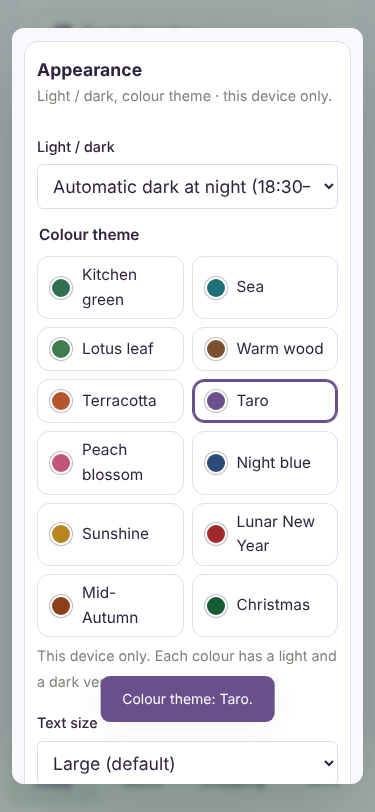
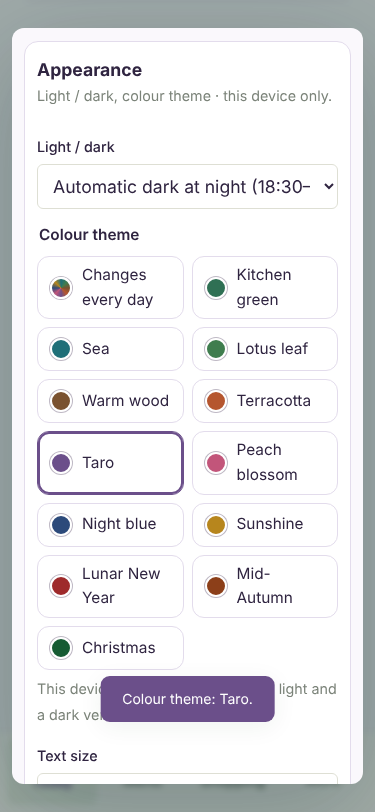
v1.7.10: colours that change every day, buttons keep the page still (rule 24), tests for the 125-recipe library
- Appearance: 'Tự đổi mỗi ngày' swatch cycles Bếp xanh and the eight colours by Sydney day
- Tapping a button/tab/chip that redraws the same screen keeps it under the finger
- AGENTS.md rule 24: buttons must not make the page jump
- Salad hạt chip removed from the library row (recipes retired)
- artwork/catalog-filters browser tests follow the 125-recipe catalogue; fixed waits replaced

Claude-Session: https://claude.ai/code/session_01Gw2TZthCA8GaqhGWMHXnCh

diff --git a/src/frontend/personal-ui.ts b/src/frontend/personal-ui.ts
@@ -17,10 +17,14 @@ function autoEnsureMemberIdentity(){if(!accountSession?.household||!accountSessi
 function getThemeMode(){try{return localStorage.getItem('bep-theme-mode')||'auto'}catch{return 'auto'}}
 // v1.7.10 (Henry, 7 Nov 2026: “thêm 5–6 loại themes”; he chose these eight, each device on its own): colour themes share
 // the seasonal-theme setting (one choice per device). Each has a light and a dark version (CSS: html[data-festival="…"]).
-const COLOR_THEMES:[string,string,string,string][]=[['default','Bếp xanh','Kitchen green','#2f7054'],['bien','Biển','Sea','#1f6f78'],['lasen','Lá sen','Lotus leaf','#3f7d4e'],['go','Gỗ ấm','Warm wood','#7a5230'],['datnung','Đất nung','Terracotta','#b5562f'],['khoaimon','Khoai môn','Taro','#6b4f8a'],['hoadao','Hoa đào','Peach blossom','#c2557a'],['demxanh','Đêm xanh','Night blue','#2c4a7a'],['nangvang','Nắng vàng','Sunshine','#b7861d'],['tet','Tết · Đỏ vàng','Lunar New Year','#9e2a2b'],['midautumn','Trung Thu','Mid-Autumn','#8c3f19'],['christmas','Giáng Sinh','Christmas','#165b33']];
+const COLOR_THEMES:[string,string,string,string][]=[['auto','Tự đổi mỗi ngày','Changes every day','auto'],['default','Bếp xanh','Kitchen green','#2f7054'],['bien','Biển','Sea','#1f6f78'],['lasen','Lá sen','Lotus leaf','#3f7d4e'],['go','Gỗ ấm','Warm wood','#7a5230'],['datnung','Đất nung','Terracotta','#b5562f'],['khoaimon','Khoai môn','Taro','#6b4f8a'],['hoadao','Hoa đào','Peach blossom','#c2557a'],['demxanh','Đêm xanh','Night blue','#2c4a7a'],['nangvang','Nắng vàng','Sunshine','#b7861d'],['tet','Tết · Đỏ vàng','Lunar New Year','#9e2a2b'],['midautumn','Trung Thu','Mid-Autumn','#8c3f19'],['christmas','Giáng Sinh','Christmas','#165b33']];
+// v1.7.10 (owner, 7 Nov 2026: “cho thêm auto option để màu tự chuyển giữa các theme”): “Tự đổi mỗi ngày” moves to the next
+// everyday colour each day (Sydney date), the same colour all day on this device.
+const AUTO_THEME_CYCLE=['default','bien','lasen','go','datnung','khoaimon','hoadao','demxanh','nangvang'];
+function autoColorTheme(date=(typeof sydneyDate==='function'?sydneyDate():new Date().toISOString().slice(0,10))){const n=Math.floor(Date.parse(date+'T12:00:00Z')/864e5);return AUTO_THEME_CYCLE[((n%AUTO_THEME_CYCLE.length)+AUTO_THEME_CYCLE.length)%AUTO_THEME_CYCLE.length]}
 function getFestivalTheme(){try{return localStorage.getItem('bep-festival-theme')||'default'}catch{return 'default'}}
 function getTextSize(){try{const v=localStorage.getItem('bep-text-size');return v==='medium'||v==='xlarge'?v:'large'}catch{return 'large'}}
-function applyThemePreferences(){document.documentElement.dataset.textSize=getTextSize();const mode=getThemeMode(),fest=getFestivalTheme();let dark=mode==='dark';if(mode==='auto'){const hr=new Date().getHours(),min=new Date().getMinutes(),totalMin=hr*60+min;dark=totalMin>=18*60+30||totalMin<6*60}document.documentElement.dataset.theme=dark?'dark':'light';document.documentElement.dataset.themeMode=mode;if(fest&&fest!=='default')document.documentElement.dataset.festival=fest;else delete document.documentElement.dataset.festival;let btn=$('#theme-quick-toggle');if(!btn&&$('.top-actions')){btn=document.createElement('button');btn.id='theme-quick-toggle';btn.type='button';btn.className='icon theme-toggle-btn';btn.dataset.personal='cycle-theme';$('.top-actions').insertBefore(btn,$('.top-actions .notification'))}if(btn){/* v1.7.10: our own drawing instead of emoji (rule 19) */btn.innerHTML=typeof uiArt==='function'?uiArt(mode==='auto'?'theme-auto':dark?'theme-dark':'theme-light','theme-toggle-art'):'';const themeName=(COLOR_THEMES.find(t=>t[0]===fest)||COLOR_THEMES[0]);btn.title=tr(`Giao diện: ${mode==='auto'?'Tự động tối về đêm':dark?'Tối':'Sáng'} · ${themeName[1]} (bấm để đổi sáng / tối)`,`Theme: ${mode==='auto'?'automatic':dark?'dark':'light'} · ${themeName[2]} (tap to switch light / dark)`);btn.setAttribute('aria-label',btn.title)}}
+function applyThemePreferences(){document.documentElement.dataset.textSize=getTextSize();const mode=getThemeMode(),chosen=getFestivalTheme(),fest=chosen==='auto'?autoColorTheme():chosen;let dark=mode==='dark';if(mode==='auto'){const hr=new Date().getHours(),min=new Date().getMinutes(),totalMin=hr*60+min;dark=totalMin>=18*60+30||totalMin<6*60}document.documentElement.dataset.theme=dark?'dark':'light';document.documentElement.dataset.themeMode=mode;if(fest&&fest!=='default')document.documentElement.dataset.festival=fest;else delete document.documentElement.dataset.festival;let btn=$('#theme-quick-toggle');if(!btn&&$('.top-actions')){btn=document.createElement('button');btn.id='theme-quick-toggle';btn.type='button';btn.className='icon theme-toggle-btn';btn.dataset.personal='cycle-theme';$('.top-actions').insertBefore(btn,$('.top-actions .notification'))}if(btn){/* v1.7.10: our own drawing instead of emoji (rule 19) */btn.innerHTML=typeof uiArt==='function'?uiArt(mode==='auto'?'theme-auto':dark?'theme-dark':'theme-light','theme-toggle-art'):'';const themeName=(COLOR_THEMES.find(t=>t[0]===fest)||COLOR_THEMES[1]);btn.title=tr(`Giao diện: ${mode==='auto'?'Tự động tối về đêm':dark?'Tối':'Sáng'} · ${themeName[1]} (bấm để đổi sáng / tối)`,`Theme: ${mode==='auto'?'automatic':dark?'dark':'light'} · ${themeName[2]} (tap to switch light / dark)`);btn.setAttribute('aria-label',btn.title)}}
 // My kitchen holds family-kitchen settings only, in four cards: members & portions,
 // family connection, menu, reminders. Account & security lives behind the header avatar;
 // appearance, currency and data/backup live in one “Other settings” sheet.
@@ -48,7 +52,7 @@ function kitchenFamilyBody(current,linkedMember,joinNotice){
 }
 function kitchenMembersBody(current,linkedMember){const edit=canEdit(),dis=edit?'':'disabled';return `<form id="members-form">${state.members.map((m,i)=>`<div class="kitchen-member-row"><span class="kitchen-member-emoji" aria-hidden="true">${esc(m.emoji||'🙂')}</span><div class="field"><label for="member-${i}">${tr('Tên','Name')}</label><input id="member-${i}" name="name-${i}" required maxlength="40" value="${esc(m.name)}" ${dis}>${(current?.memberId||linkedMember?.id)===m.id?`<small class="kitchen-you">${tr('Tài khoản của bạn','Your account')}</small>`:''}</div><div class="field"><label for="weight-${i}">${tr('Suất / bữa','Portions / meal')}</label><input id="weight-${i}" name="weight-${i}" required type="number" inputmode="decimal" min="0.1" max="3" step="0.05" value="${m.weight}" ${dis}></div></div>`).join('')}${edit?`<div class="toolbar"><button type="button" class="btn small" data-action="add-member">+ ${tr('Thêm thành viên','Add member')}</button>${state.members.length>1?`<button type="button" class="btn small" data-feature="manage-members">${tr('Bớt thành viên','Remove a member')}</button>`:''}<button type="button" class="btn small primary" data-action="submit-form" data-id="members-form">${tr('Lưu khẩu phần','Save portions')}</button></div>`:`<p class="hint">${tr('Quyền chỉ xem: không đổi được khẩu phần.','View-only access: portions cannot be changed.')}</p>`}</form>`}
 function kitchenMenuBody(){const p=state.preferences,edit=canEdit(),dis=edit?'':'disabled',opt=(v,cur,label)=>`<option value="${v}" ${cur===v?'selected':''}>${label}</option>`;return `<form id="settings-form"><div class="form-grid"><div class="field"><label for="budget">${tr('Ngân sách tuần','Weekly budget')} (${esc(currentCurrency(state))})</label><input id="budget" name="budget" type="number" inputmode="decimal" min="1" max="999999999" required value="${p.budget}" ${dis}></div><div class="field"><label for="max-time">${tr('Thời gian nấu tối đa / món','Maximum cooking time / dish')}</label><select id="max-time" name="maxTime" ${dis}>${[15,20,30,45,60,90].map(n=>`<option value="${n}" ${p.maxTime===n?'selected':''}>${n} ${tr('phút','min')}</option>`).join('')}</select></div></div><div class="field"><label for="avoid">${tr('Món ăn / nguyên liệu cần tránh, dị ứng (cách nhau bằng dấu phẩy)','Foods to avoid, allergies (comma separated)')}</label><input id="avoid" name="avoid" value="${esc(p.avoid)}" placeholder="${tr('Ví dụ: tôm, cá hồi','e.g. prawns, salmon')}" ${dis}><small>${tr('Lọc theo tên đã nhập. Luôn kiểm tra thành phần và nhãn sản phẩm.','Filters by the names entered. Always check ingredients and product labels.')}</small></div><details class="kitchen-more" id="kitchen-menu-more"><summary>${tr('Số món mỗi bữa, cuối tuần & giờ ăn tối','Dishes per meal, weekends & dinner time')}</summary><div class="form-grid kitchen-counts">${[['mainCount',tr('Món mặn','Main dishes'),1,3],['soupCount',tr('Món canh','Soups'),0,2],['vegCount',tr('Món rau','Vegetable dishes'),0,3]].map(([key,name,min,max])=>`<div class="field"><label for="${key}">${name}</label><select id="${key}" name="${key}" ${dis}>${Array.from({length:max-min+1},(_,i)=>i+min).map(n=>`<option value="${n}" ${(p[key]??1)===n?'selected':''}>${n}</option>`).join('')}</select></div>`).join('')}</div><div class="form-grid"><div class="field"><label for="weekend-meals">${tr('Bữa cuối tuần áp dụng','Weekend meals')}</label><select id="weekend-meals" name="weekendMeals" ${dis}>${opt('lunch',p.weekendMeals,tr('Bữa trưa','Lunch'))}${opt('dinner',p.weekendMeals,tr('Bữa tối','Dinner'))}${opt('both',p.weekendMeals,tr('Cả trưa và tối','Lunch and dinner'))}</select></div><div class="field"><label for="dinner-time">${tr('Giờ ăn tối','Dinner time')}</label><input id="dinner-time" name="dinnerTime" type="time" value="${esc(p.dinnerTime)}" required ${dis}></div></div><label class="checked-label"><input type="checkbox" class="check" name="weekendSoup" ${p.weekendSoup?'checked':''} ${dis}> ${tr('Ưu tiên món nước cuối tuần','Prefer noodle soups at the weekend')}</label></details>${edit?`<div class="toolbar topspace"><button type="button" class="btn small primary" data-action="submit-form" data-id="settings-form">${tr('Lưu thực đơn','Save menu')}</button><button type="button" class="text-btn kitchen-link" data-personal="setup">${tr('Thiết lập lại từ đầu','Guided setup')}</button></div>`:''}</form>`}
-function kitchenAppearanceBody(){const mode=getThemeMode(),fest=getFestivalTheme(),opt=(v,cur,label)=>`<option value="${v}" ${cur===v?'selected':''}>${label}</option>`;return `<div class="form-grid"><div class="field"><label for="theme-mode-select">${tr('Sáng / tối','Light / dark')}</label><select id="theme-mode-select">${opt('auto',mode,tr('Tự động tối về đêm (18:30–06:00)','Automatic dark at night (18:30–06:00)'))}${opt('light',mode,tr('Luôn sáng','Always light'))}${opt('dark',mode,tr('Luôn tối','Always dark'))}</select></div><fieldset class="field theme-swatches"><legend>${tr('Màu giao diện','Colour theme')}</legend><div class="theme-swatch-grid" role="radiogroup" aria-label="${tr('Màu giao diện','Colour theme')}">${COLOR_THEMES.map(([id,vi,en,c])=>`<button type="button" class="theme-swatch${fest===id?' on':''}" role="radio" aria-checked="${fest===id}" data-color-theme="${id}"><span class="theme-swatch-dot" style="background:${c}" aria-hidden="true"></span><span>${tr(vi,en)}</span></button>`).join('')}</div><small class="hint">${tr('Chỉ đổi trên máy này. Mỗi màu có bản sáng và tối.','This device only. Each colour has a light and a dark version.')}</small></fieldset><div class="field"><label for="text-size-select">${tr('Cỡ chữ','Text size')}</label><select id="text-size-select">${opt('medium',getTextSize(),tr('Vừa','Medium'))}${opt('large',getTextSize(),tr('Lớn (mặc định)','Large (default)'))}${opt('xlarge',getTextSize(),tr('Rất lớn','Extra large'))}</select></div></div>`}
+function kitchenAppearanceBody(){const mode=getThemeMode(),fest=getFestivalTheme(),opt=(v,cur,label)=>`<option value="${v}" ${cur===v?'selected':''}>${label}</option>`;return `<div class="form-grid"><div class="field"><label for="theme-mode-select">${tr('Sáng / tối','Light / dark')}</label><select id="theme-mode-select">${opt('auto',mode,tr('Tự động tối về đêm (18:30–06:00)','Automatic dark at night (18:30–06:00)'))}${opt('light',mode,tr('Luôn sáng','Always light'))}${opt('dark',mode,tr('Luôn tối','Always dark'))}</select></div><fieldset class="field theme-swatches"><legend>${tr('Màu giao diện','Colour theme')}</legend><div class="theme-swatch-grid" role="radiogroup" aria-label="${tr('Màu giao diện','Colour theme')}">${COLOR_THEMES.map(([id,vi,en,c])=>`<button type="button" class="theme-swatch${fest===id?' on':''}" role="radio" aria-checked="${fest===id}" data-color-theme="${id}"><span class="theme-swatch-dot${c==='auto'?' auto':''}" ${c==='auto'?'':`style="background:${c}"`} aria-hidden="true"></span><span>${tr(vi,en)}</span></button>`).join('')}</div><small class="hint">${tr('Chỉ đổi trên máy này. Mỗi màu có bản sáng và tối.','This device only. Each colour has a light and a dark version.')}</small></fieldset><div class="field"><label for="text-size-select">${tr('Cỡ chữ','Text size')}</label><select id="text-size-select">${opt('medium',getTextSize(),tr('Vừa','Medium'))}${opt('large',getTextSize(),tr('Lớn (mặc định)','Large (default)'))}${opt('xlarge',getTextSize(),tr('Rất lớn','Extra large'))}</select></div></div>`}
 // Account & security: a small sheet behind the header avatar (not part of My kitchen).
 function accountSecurityBody(){const a=accountSession.account||{},h=accountSession.household;return `<div class="account-sheet-id"><span class="account-sheet-face" aria-hidden="true">${esc(accountInitial())}</span><span><b data-user-content>${esc(accountDisplayName())}</b>${a.username?`<small data-user-content>@${esc(a.username)}</small>`:''}<small>${h?`<span data-user-content>${esc(h.name||'')}</span> · ${esc(familyRoleName(h.role))}`:tr('Chưa chọn gia đình','No family selected')}</small></span></div>`
  +settingsCard('security','email',tr('Email khôi phục','Recovery email'),tr('Dùng để đặt lại mật khẩu.','Used to reset your password.'),kitchenOnline()?`<form id="account-email"><div class="field"><label for="account-email-address">${tr('Email khôi phục','Recovery email')}</label><input id="account-email-address" name="email" type="email" autocomplete="email" maxlength="254" value="${esc(a.email||'')}"></div><div class="field"><label for="account-email-password">${tr('Mật khẩu hiện tại','Current password')}</label><input id="account-email-password" name="password" type="password" autocomplete="current-password" required maxlength="128"></div><button class="btn small">${tr('Lưu email','Save email')}</button><p id="email-result" role="status"></p></form>`:`<p class="hint">${tr('Cần mạng để đổi email khôi phục.','Connect to the internet to change the recovery email.')}</p>`)

diff --git a/src/frontend/app.ts b/src/frontend/app.ts
@@ -252,3 +252,11 @@ function savePurchasePicker(){if(!purchasePicker)return;const input=$('#weight-e
 function resetPurchasePicker(){if(!purchasePicker)return;const p=purchasePicker;resetPurchaseQuantity(currentWeek(),p.start,p.end,p.id);delete currentWeek().bought[p.id];save('Đã trở về lượng mua tự động.');purchasePicker=null;clearTimeout(purchaseScrollTimer);closeModal();render()}
 document.addEventListener('input',e=>{if(e.target.id!=='weight-exact'||!purchasePicker)return;const value=e.target.valueAsNumber*(['kg','l'].includes(purchasePicker.displayUnit)?1000:1);if(!Number.isFinite(value)||value<0||value>1e6)return;purchasePicker.qty=value;updatePurchaseSummary(false)});
 document.addEventListener('change',e=>{if(!purchasePicker)return;if(e.target.id==='weight-unit'){purchasePicker.displayUnit=e.target.value;$('#weight-exact').max=['kg','l'].includes(e.target.value)?1000:1000000;updatePurchaseSummary()}if(e.target.id==='weight-step'){purchasePicker.step=+e.target.value;renderPurchaseWheel();updatePurchaseSummary()}if(e.target.id==='weight-exact'){const value=e.target.valueAsNumber*(['kg','l'].includes(purchasePicker.displayUnit)?1000:1);if(Number.isFinite(value)&&value>=0&&value<=1e6)setPickerQuantity(value)}});
+// v1.7.10 (owner, 7 Nov 2026: “ấn nút bữa sáng / bữa trưa / bữa tối thì web nó nhảy… ấn nút là không được nhảy lên xuống”):
+// a tap that redraws the same screen keeps the tapped control exactly where it was. Taps that open a sheet, change
+// screen or change the address (links, notifications) are left alone.
+const KEEP_ATTRS=['data-action','data-fm','data-house','data-change','data-id','data-type','data-date','data-member','data-key','data-qr-dir','data-qr-id','data-mr','data-planning','data-feature','data-screen'];
+function keepPlaceSelector(el:Element){const parts=KEEP_ATTRS.filter(a=>el.hasAttribute(a)).map(a=>`[${a}="${CSS.escape(el.getAttribute(a)||'')}"]`);return parts.length?el.tagName.toLowerCase()+parts.join(''):null}
+document.addEventListener('click',e=>{const el=(e.target as any)?.closest?.('button,[role="tab"],a[data-action],[data-fm],[data-house]');if(!el||el.closest('#modal-root,.modal,#undo-bar')||el.hasAttribute('data-keep-scroll-off'))return;
+ const sel=keepPlaceSelector(el);if(!sel)return;const v=view,hash=location.hash,top=el.getBoundingClientRect().top,root=document.documentElement,prev=root.style.overflowAnchor;
+ setTimeout(()=>{try{if(view!==v||location.hash!==hash||document.querySelector('#modal-root .modal'))return;const now=document.querySelector('#main '+sel)||document.querySelector(sel);if(!now)return;const d=now.getBoundingClientRect().top-top;if(Math.abs(d)>1){root.style.overflowAnchor='none';window.scrollBy(0,d);requestAnimationFrame(()=>{root.style.overflowAnchor=prev})}}catch{}},0)},true);

diff --git a/src/frontend/family-menu-ui.ts b/src/frontend/family-menu-ui.ts
@@ -17,7 +17,7 @@ function familyRecipePool(scope=familyLibraryMode){const q=familyRecipeSearch.tr
 // badge, page size 10/20/50/100 remembered per device with "Xem thêm" (load more), and compact image+name cards that
 // expand inline (accordion); tapping the image opens the full recipe. Counts reuse recipeMatchesLibraryFilters/Tag.
 function familyRecipeRows(scope=familyLibraryMode,pool=familyRecipePool(scope)){return pool.filter(r=>recipeMatchesLibraryFilters(r,{category:familyRecipeCat,tag:familyRecipeTag})&&recipeMatchesLibraryTag(r,familyRecipeDiet))}
-const FAMILY_TAG_CHIPS=[['western','🍝 Món Âu & Ý','🍝 Western & Italian'],['healthy','🥗 Healthy · Thanh đạm','🥗 Healthy'],['vegetarian','Vegetarian','Vegetarian'],['vegan','Thuần chay','Vegan'],['seed-salad','Salad hạt','Seed & grain salads'],['dressing','Dressing','Dressings']],FAMILY_KIND_TAGS=['western','seed-salad','dressing'],FAMILY_DIET_TAGS=['healthy','vegetarian','vegan'],FAMILY_PAGE_SIZES=[10,20,50,100];
+const FAMILY_TAG_CHIPS=[['western','🍝 Món Âu & Ý','🍝 Western & Italian'],['healthy','🥗 Healthy · Thanh đạm','🥗 Healthy'],['vegetarian','Vegetarian','Vegetarian'],['vegan','Thuần chay','Vegan'],['seed-salad','Salad hạt','Seed & grain salads'],['dressing','Dressing','Dressings']],FAMILY_KIND_TAGS=['western','dressing'],FAMILY_DIET_TAGS=['healthy','vegetarian','vegan'],FAMILY_PAGE_SIZES=[10,20,50,100];
 function familyFilterActive(){return familyRecipeCat!=='all'||familyRecipeTag!=='all'||familyRecipeDiet!=='all'||familyRecipeTime!=='all'}
 function familySheetFilterCount(){return Number(familyRecipeDiet!=='all')+Number(familyRecipeTime!=='all')}
 function familyTimeLabel(){return tr('≤20 phút','≤20 min')}

diff --git a/dist/styles.css b/dist/styles.css
@@ -2068,3 +2068,4 @@ html[data-festival="khoaimon"]:not([data-theme="dark"]){--green2:#715394}
 html[data-festival="hoadao"]:not([data-theme="dark"]){--green2:#9a3d61}
 html[data-festival="nangvang"]:not([data-theme="dark"]){--green2:#755410}
 html[data-festival="datnung"]:not([data-theme="dark"]){--green2:#9a4524}
+.theme-swatch-dot.auto{background:conic-gradient(#1f6f78,#3f7d4e,#7a5230,#b5562f,#6b4f8a,#c2557a,#2c4a7a,#b7861d,#1f6f78)}

diff --git a/docs/reviews/v1.7.10/review.md b/docs/reviews/v1.7.10/review.md
@@ -32,3 +32,29 @@ Scope, from Henry's choices in the question dialog on 7 Nov 2026:
 - **Family recipes:** never translated (`data-user-content`). In English mode their sheet says *Family recipes are shown as your family wrote them.* The old note *Recipe names and cooking instructions remain in their original language* is gone.
 - **Tests:** `language:browser` (EN) fails if any reference recipe's prep or step has no English. It opens a reference recipe and checks the steps show in English, and it checks that a family recipe stays in Vietnamese.
 - **Evidence:** `docs/reviews/v1.7.10/recipe-bolognese-en-375.png`.
+
+### Row 4 — recipe library audit: only real dishes stay
+
+- **Henry (7 Nov 2026, giờ Sydney):** “Các món ăn trong kho… phải kiểm tra kỹ nguồn là món ăn và công thức thật chứ không phải là những món ăn tự dựng bậy lên.” Decision by pop-up: *Chỉ giữ món thật có nguồn*, folded into v1.7.10.
+- **What the audit found:** 209 of the `family-v3` reference recipes were template combinations (same steps, swapped protein/vegetable), 243 recipes shared template step text, and the seed-salad and many plant bowls were invented mixes. None had a source.
+- **Change:** 350 reference recipes retired (`RETIRED_REFERENCE_IDS`), 125 kept: 45 Western (Ý 25, Âu 18, Healthy 2), 17 plant (vegetarian 10, dressings 7, vegan 13 overall), the rest Vietnamese home dishes. `CATALOG_EDITION` 7.
+- **Family data is safe (rule 6):** an existing family keeps any retired recipe it favourited, edited, photographed, planned or mentioned in a note; only untouched library samples leave. Family-authored recipes are never touched.
+- **UI:** the *Salad hạt* filter chip is gone (no recipes left behind it); counts show 125.
+- **Still open in this release:** adding a *Nguồn tham khảo* (source) line to each kept recipe after checking it against a published recipe. Amounts that differ from the source follow the source; missing amounts are never invented.
+- **Tests updated to the 125-recipe catalogue, keeping every quality check:** western-catalog, plant-catalog, units-catalog, artwork (+browser), catalog-fixes, catalog-filters (+browser), v175-recipes, offline-downloads (+browser), catalog-browser, library-guide.
+
+### Row 5 — colours change by themselves (Tự đổi mỗi ngày)
+
+- **Henry (7 Nov 2026):** “Cho thêm auto option để màu tự chuyển giữa các theme.”
+- **What:** a 13th swatch, *Tự đổi mỗi ngày / Changes every day* (rainbow dot), first in the list. When chosen, the colours move through Bếp xanh and the eight colours, one per Sydney day, and stay the same all day (no flicker while cooking). Light / dark still follows *Sáng / tối*. Saved on this device only.
+- **Tests:** `v176-fixes:browser` checks 13 swatches ≥ 44 px and that the auto choice gives different colours on 7 and 8 Nov 2026 (`autoColorTheme`).
+- **Evidence:** `docs/reviews/v1.7.8/{vi,en}-*-appearance-themes.png` (Chromium simulation).
+
+### Row 6 — tapping a button does not move the page (new rule 24)
+
+- **Henry (7 Nov 2026):** “Khi ấn nút bữa sáng bữa trưa bữa tối thì web nó nhảy. Cho thêm rules là ấn nút là không được nhảy lên xuống.”
+- **Cause:** a tap redraws the screen; content above the tabs changes height, so the tapped tabs moved.
+- **Fix:** after a button / tab / chip redraws the same screen, the app scrolls back by exactly the distance the tapped control moved, so it stays under the finger. Real navigation (new screen, hash change, opening a sheet) is left alone.
+- **Rule:** AGENTS.md rule 24 records it for every future release.
+- **Tests:** `v176-fixes:browser` taps Bữa trưa → Bữa sáng → Bữa trưa at 320 / 375 / 820 / 1280 in VI and EN and fails if the tab moves 3 px or more.
+- **Evidence:** `docs/reviews/v1.7.8/{vi,en}-{size}-meal-tab-still.png` (Chromium simulation, not physical phones).

diff --git a/AGENTS.md b/AGENTS.md
@@ -49,3 +49,7 @@ This is an agent workflow rule, not a claim that GitHub branch protection or hos
 ## Agent does the preparation — owner instruction, 6 November 2026
 
 23. Henry only says **DEPLOY**. Everything before it is the agent's job without asking: create the release branch, implement and test, keep the release record and evidence, push, open the pull request to `main` as soon as the release is ready for review (not a draft), watch CI, fix real failures, and tell Henry — in Sydney time, with the PR and CI links — when the exact PR head is green and ready. Opening or updating a PR is not a deploy; rules 1–3, 15–16 and 18 still apply: nothing is merged into `main` or built on the hosting provider until Henry says DEPLOY for that release. Questions to Henry are only for real product decisions (plans under rule 4, data or privacy choices), asked with the pop-up question tool when available.
+
+## Buttons keep the page still — owner instruction, 7 November 2026
+
+24. Tapping a button, tab or chip must not make the page jump up or down. The tapped control stays where it was on screen after the view redraws (for example the Bữa sáng / Bữa trưa / Bữa tối tabs). Only real navigation (a new screen, opening a sheet, a link to a section) may move the page. Every change to buttons, tabs or redraws keeps a browser check that the tapped control does not move.
